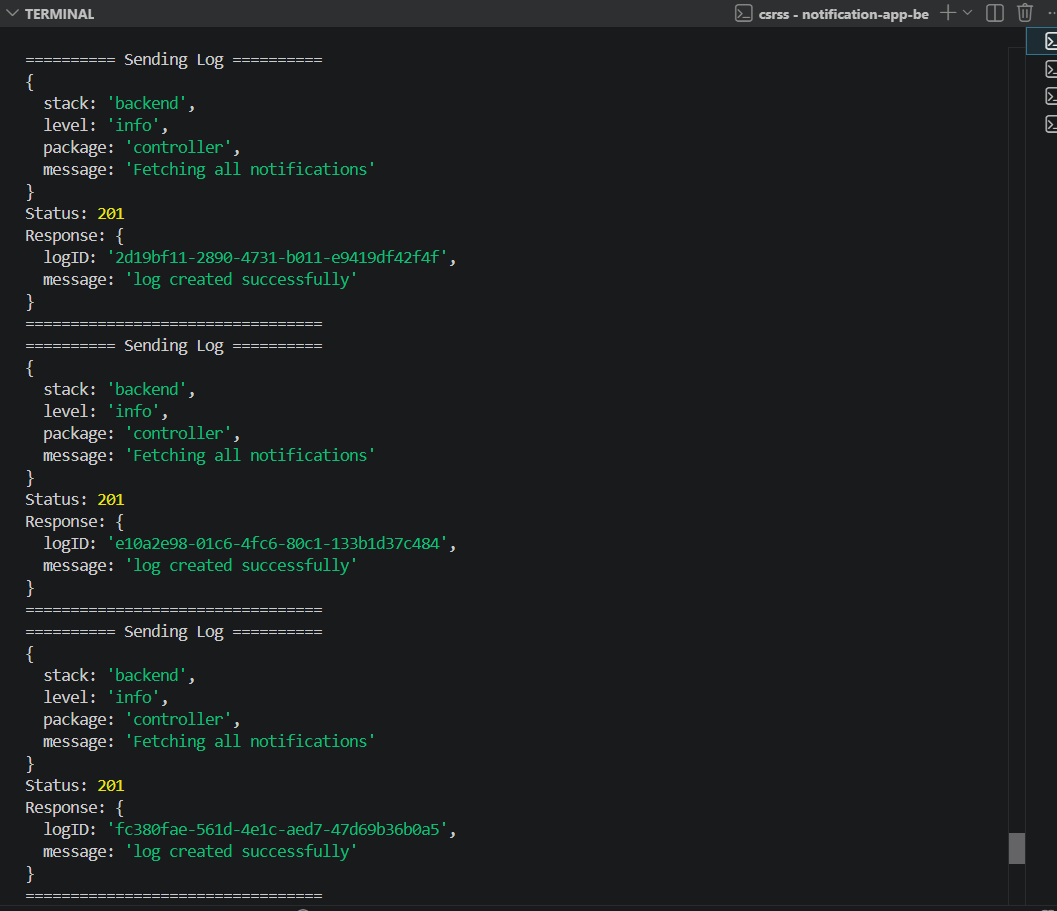
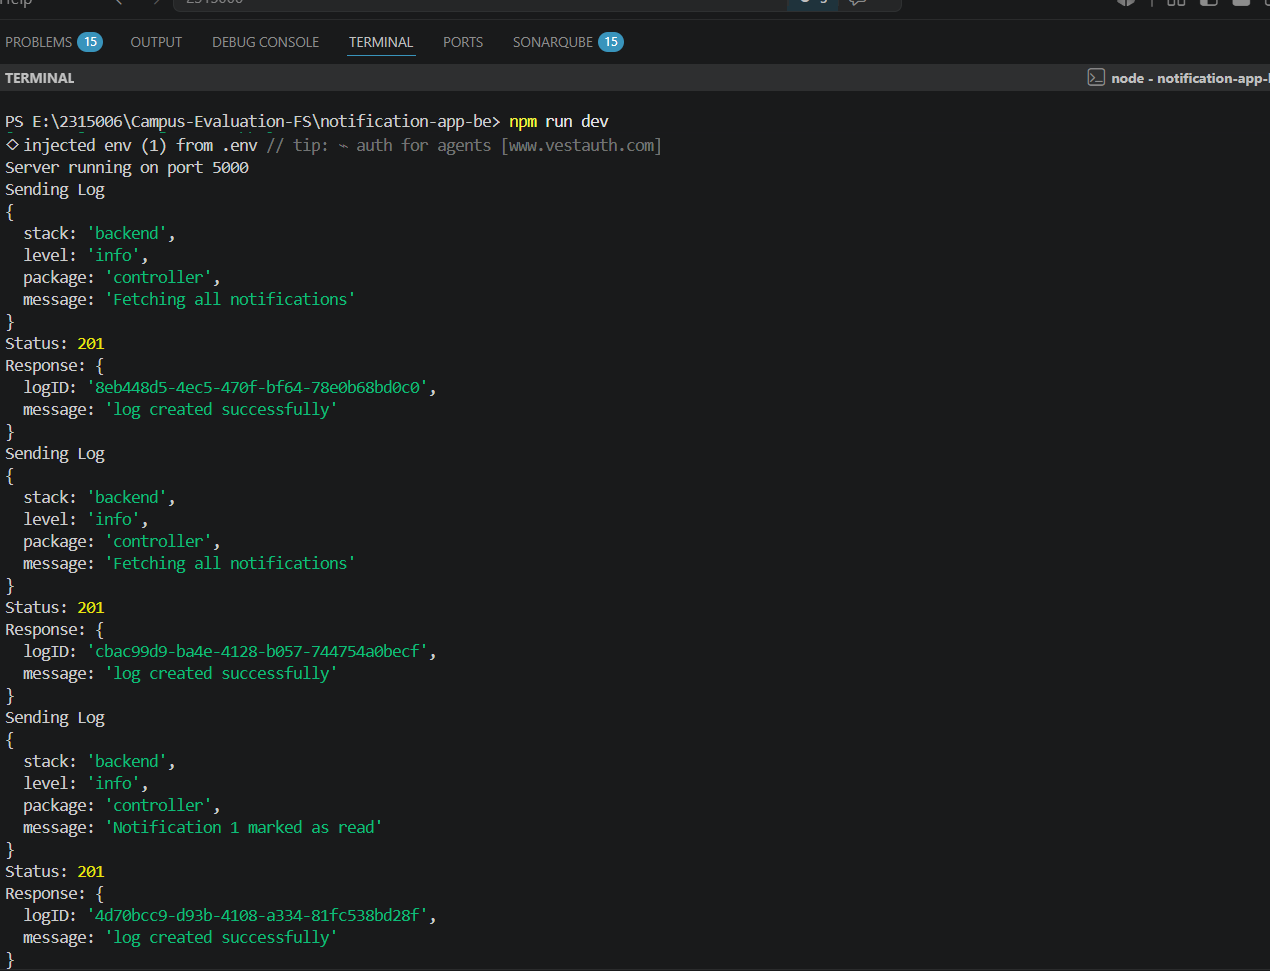
over

diff --git a/notification-app-be/Middleware/log.js b/notification-app-be/Middleware/log.js
@@ -7,7 +7,7 @@ export const Log = async (stack, level, packageName, message) => {
       message,
     };
 
-    console.log("========== Sending Log ==========");
+    console.log("Sending Log ");
     console.log(payload);
 
     const response = await fetch("http://localhost:3001/logs", {
@@ -33,7 +33,7 @@ export const Log = async (stack, level, packageName, message) => {
 
     console.log("Response:", data);
 
-    console.log("=================================");
+    
   } catch (error) {
     console.error("Failed to send log:", error.message);
   }